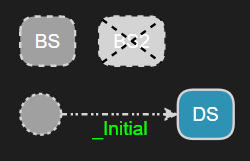
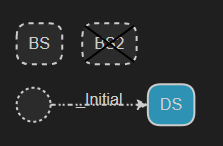
RIC-1640: Doc updates for 3.3.0

diff --git a/docs-sources/art-lang/index.md b/docs-sources/art-lang/index.md
@@ -188,8 +188,10 @@ Any but the simplest of applications will consist of multiple Art files organize
 
 Folders with Art files should be added as workspace folders, either using the command **File - Add Folder to Workspace** (to add a folder to an existing workspace), or using the command **File - Open Workspace from File** (to open an existing workspace from a file that defines the workspace folders). If your application consists of more than a couple of workspace folders use of a workspace file is recommended as it makes it quick and easy to add all workspace folders in one go with a single command.
 
-!!! note 
-    Art files must be on the top level in a workspace folder. Do not place them in subfolders. 
+You may use subfolders within a workspace folder to further group Art files. This grouping has no semantic significance, but can help in case a workspace folder has a large number of Art files (or [C++ files](../building/build-cpp-files.md)).
+
+!!! note
+    If your workspace folder has subfolders make sure that Art files that contain [file-level code snippets](#file-level-code-snippets) have unique names. If they don't, the `.art.h` and `.art.cpp` files that are generated from those Art files will overwrite each other since the file names will clash.
 
 ### Multi-Root Workspaces
 A [workspace](https://code.visualstudio.com/docs/editing/workspaces/workspaces) in Visual Studio Code and similar IDEs is either a single folder or a collection of workspace folders (a.k.a. a multi-root workspace). If you use the command **File - Open Folder** you get a workspace that consists of that single opened folder. Even if there are a few simple cases when that is all you need, it's always recommended to use {$product.name$} with multi-root workspaces. In fact, as soon as you generate code for a TC it will be placed in its own workspace folder. In almost all cases a {$product.name$} workspace will therefore contain at least two workspace folders.
@@ -197,7 +199,7 @@ A [workspace](https://code.visualstudio.com/docs/editing/workspaces/workspaces) 
 Beware that when Visual Studio Code goes from a workspace that consists of a single folder to become a multi-root workspace, it automatically restarts all extensions, including {$product.name$}. For example, this happens if you build a TC of a single workspace folder, when the target workspace folder with the generated code gets added to the workspace. If you are not aware of this, and are working with something else when this restart happens, this can come as a surprise and interrupt your work. It's therefore **strongly recommended** to always use multi-root workspaces with {$product.name$}. If you started by opening a single folder as your workspace, make sure to save it as a workspace file using the command **File - Save Workspace As** before you build or set a TC as active. There are also other benefits with always using [multi-root workspaces](https://code.visualstudio.com/docs/editing/workspaces/workspaces#_multiroot-workspaces). For example, all workspace-level [settings](../settings.md) you make when working in that workspace will be persisted into the same `.code-workspace` file.
 
 ### Binding of References across Art Files
-When an Art file contains a reference to an Art element that cannot be found within the same file, other Art files in the workspace will be searched for an Art element with the referenced name. This search starts with the Art files in the same workspace folder. If a matching Art element is found in one of these files, the reference is bound to it. Otherwise an active [transformation configuration](../building/transformation-configurations.md) (TC) is required, which specifies one or several prerequisites. The Art files in the workspace folders where the prerequisite TCs are located will then be searched. The search continues recursively if the prerequisite TC itself has prerequisites.
+When an Art file contains a reference to an Art element that cannot be found within the same file, other Art files in the workspace will be searched for an Art element with the referenced name. This search starts with the Art files in the same workspace folder (and its subfolders). If a matching Art element is found in one of these files, the reference is bound to it. Otherwise an active [transformation configuration](../building/transformation-configurations.md) (TC) is required, which specifies one or several prerequisites. The Art files in the workspace folders where the prerequisite TCs are located will then be searched (including subfolders of those workspace folders). The search continues recursively if the prerequisite TC itself has prerequisites.
 
 If a matching Art element cannot be found in any of these locations the reference will be unresolved and an error will be reported. For example:
 
@@ -206,6 +208,8 @@ Couldn't resolve reference to Protocol 'UnknownPort'. (ART_9001_unresolvedRefere
 ```
 
 For more information about unresolved references, see [this validation rule](../validation.md#art_9001_unresolvedreference).
+
+If more than one Art element with the referenced name are found, an error will be reported on the active TC. See the validation rule [TC_7019](../validation.md#tc_7019_duplicatenamesinglobalscope).
 
 ## Textual and Graphical Notations
 The Art language is a textual language, but many parts of it also have a graphical notation. For example, a state machine can be shown using a graphical state diagram, and the composite structure of a capsule can be shown in a structure diagram. Relationships between capsules, protocols and classes, such as inheritance, can be shown in class diagrams.
@@ -1377,7 +1381,7 @@ In the example we can see that `D` overrides functions from the base C++ classes
 !!! example
     You can find a sample application where a capsule inherits from both another capsule and from C++ classes [here]({$vars.github.repo$}/tree/main/art-comp-test/tests/capsule_cpp_inheritance).
 
-We can also see an example of a state machine redefinition. The initial transition `_Initial` of `B`'s state machine is redefined in `D`'s state machine so that it targets state `DS` instead of state `BS`. In the state diagram of `D` the state `BS` and the initial pseudo state are drawn with gray color and dashed outline, to show that they are inherited. The transition `_Initial` is also drawn with dashed outline, but with a different line style ("dash-dot-dot"), and with a green label to show that it's redefining the inherited initial transition. The state `BS2` is excluded in `D`'s state machine. In state diagrams excluded elements are shown with a "crossed" background or line-style.
+We can also see an example of a state machine redefinition. The initial transition `_Initial` of `B`'s state machine is redefined in `D`'s state machine so that it targets state `DS` instead of state `BS`. In the state diagram of `D` the state `BS` and the initial pseudo state are drawn with gray color and dashed outline, to show that they are inherited. The transition `_Initial` is also drawn with dashed outline, but with a different line style ("dash-dot-dot"), to show that it's redefining the inherited initial transition. The state `BS2` is excluded in `D`'s state machine. In state diagrams excluded elements are shown with a "crossed" background or line-style.
 
 ![](images/sm_redefinition.png)
 